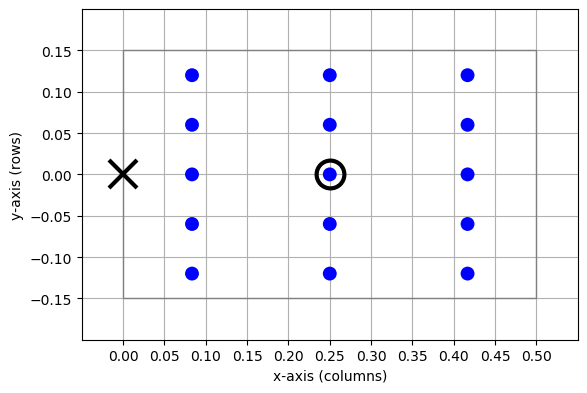
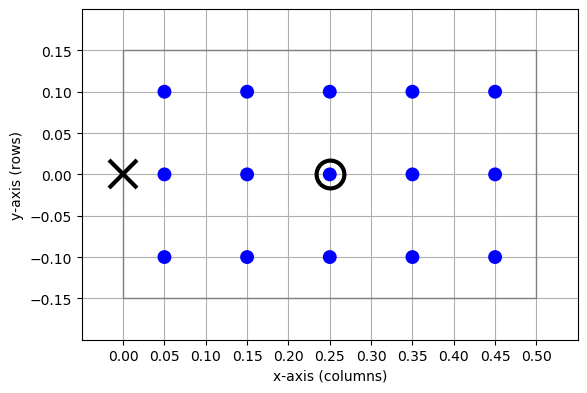
rows and column switched

diff --git a/doc/topology/user_manual_scripts/layers.py b/doc/topology/user_manual_scripts/layers.py
@@ -37,12 +37,12 @@ def beautify_layer(l, fig=plt.gcf(), xlabel=None, ylabel=None,
 
     if xticks is None:
         if 'shape' in l.spatial:
-            dx = float(ext[0]) / l.spatial['shape'][1]
-            dy = float(ext[1]) / l.spatial['shape'][0]
+            dx = float(ext[0]) / l.spatial['shape'][0]
+            dy = float(ext[1]) / l.spatial['shape'][1]
             xticks = ctr[0] - ext[0] / 2. + dx / 2. + dx * np.arange(
                 l.spatial['shape'][0])
             yticks = ctr[1] - ext[1] / 2. + dy / 2. + dy * np.arange(
-                l.spatial['shape'][0])
+                l.spatial['shape'][1])
 
     if xlim is None:
         xlim = [ctr[0] - ext[0] / 2. - dx / 2., ctr[0] + ext[
@@ -166,7 +166,7 @@ nc, nr = 5, 3
 d = 0.1
 l = nest.Create('iaf_psc_alpha',
                 positions=nest.spatial.grid(
-                    shape=[nr, nc],
+                    shape=[nc, nr],
                     extent=[nc * d, nr * d],
                     center=[nc * d / 2., 0.]))
 #{ end #}
@@ -222,7 +222,7 @@ nest.ResetKernel()
 #{ player #}
 l = nest.Create('iaf_psc_alpha',
                 positions=nest.spatial.grid(
-                    shape=[1, 5],
+                    shape=[5, 1],
                     extent=[5., 1.],
                     edge_wrap=True))
 #{ end #}
@@ -280,9 +280,9 @@ nest.ResetKernel()
 
 #{ layer6 #}
 l1 = nest.Create('iaf_cond_alpha',
-                 positions=nest.spatial.grid(shape=[1, 2]))
+                 positions=nest.spatial.grid(shape=[2, 1]))
 l2 = nest.Create('poisson_generator',
-                 positions=nest.spatial.grid(shape=[1, 2]))
+                 positions=nest.spatial.grid(shape=[2, 1]))
 #{ end #}
 
 print("#{ layer6 #}")
